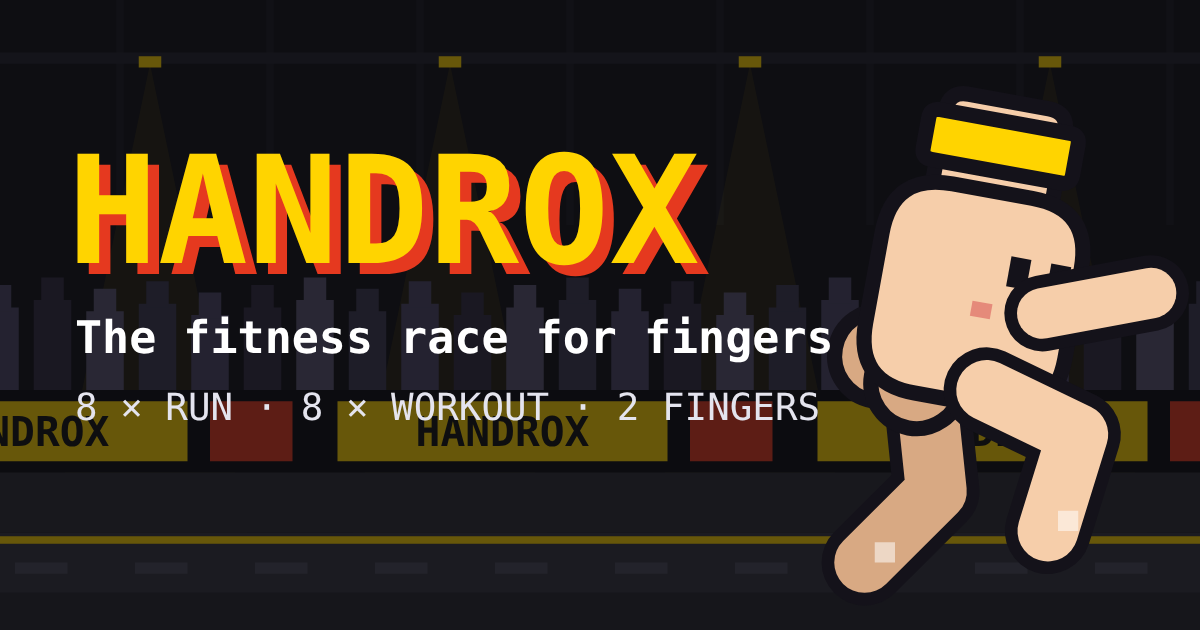
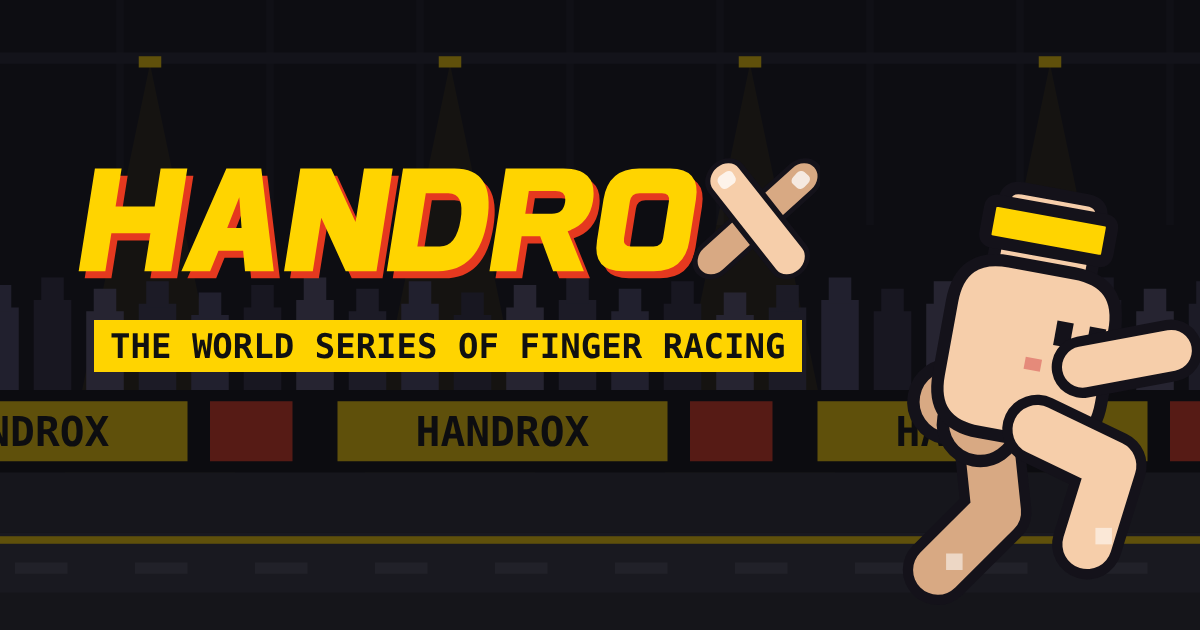
Handrox: 패러디 로고 (꼰 손가락 X) · 표지와 공유 이미지에 적용
Claude-Session: https://claude.ai/code/session_01SJE5t9gWC7fQLfFGCGp2rx

Changed region(s): [[0.0617, 0.1508, 1.0, 0.9651], [0.0617, 0.2413, 0.6783, 0.4524]]

diff --git a/handrox/index.html b/handrox/index.html
@@ -69,9 +69,9 @@
   .ov .k{font-size:15px;color:var(--gold);border:2px solid var(--gold);padding:4px 10px;margin-top:2px}
   .cover{position:absolute;inset:0;z-index:20;background:#0c0c10d8;display:flex;flex-direction:column;align-items:center;justify-content:center;gap:8px;text-align:center;cursor:pointer}
   .cover[hidden]{display:none}
-  .cover .lg{font-size:40px;font-weight:700;color:var(--gold);text-shadow:4px 4px 0 var(--red);line-height:1;letter-spacing:3px}
+  .cover .logo{width:78%;max-width:330px;height:auto;display:block}
   .cover .tag{font-size:15px;color:#fff;text-shadow:2px 2px 0 #000}
-  .cover .sub{font-size:10px;color:var(--ink);letter-spacing:1px}
+  .cover .sub{font-size:10px;color:#111;background:var(--gold);padding:2px 8px;letter-spacing:1px}
   .cover .ins{font-size:14px;animation:blink 1s steps(1) infinite;margin-top:4px}
   .cover .note{font-size:9px;color:var(--dim)}
   .lsel{display:flex;gap:8px;margin:2px 0}
@@ -138,9 +138,9 @@
     <div class="banner" id="banner"></div>
     <div class="ov" id="ov" hidden></div>
     <div class="cover" id="cover">
-      <div class="lg">HANDROX</div>
+      <svg class="logo" xmlns="http://www.w3.org/2000/svg" viewBox="0 0 740 136" role="img" aria-label="HANDROX"><g transform="translate(34,18) skewX(-9)"><path transform="translate(7,7)" fill="#e5391f" fill-rule="evenodd" d="M0,0H26V37H64V0H90V100H64V63H26V100H0Z"/><path transform="translate(107,7)" fill="#e5391f" fill-rule="evenodd" d="M0,100L28,0H62L90,100H62L57,80H33L28,100ZM38,58H52L45,28Z"/><path transform="translate(207,7)" fill="#e5391f" fill-rule="evenodd" d="M0,0H30L62,52V0H90V100H60L28,48V100H0Z"/><path transform="translate(307,7)" fill="#e5391f" fill-rule="evenodd" d="M0,0H50Q90,0 90,50Q90,100 50,100H0ZM26,24H48Q64,24 64,50Q64,76 48,76H26Z"/><path transform="translate(407,7)" fill="#e5391f" fill-rule="evenodd" d="M0,0H56Q90,0 90,32Q90,54 70,61L92,100H62L44,66H26V100H0ZM26,22H52Q63,22 63,33Q63,44 52,44H26Z"/><path transform="translate(507,7)" fill="#e5391f" fill-rule="evenodd" d="M30,0H60Q90,0 90,30V70Q90,100 60,100H30Q0,100 0,70V30Q0,0 30,0ZM34,24H56Q64,24 64,32V68Q64,76 56,76H34Q26,76 26,68V32Q26,24 34,24Z"/><path transform="translate(0,0)" fill="#ffd400" fill-rule="evenodd" d="M0,0H26V37H64V0H90V100H64V63H26V100H0Z"/><path transform="translate(100,0)" fill="#ffd400" fill-rule="evenodd" d="M0,100L28,0H62L90,100H62L57,80H33L28,100ZM38,58H52L45,28Z"/><path transform="translate(200,0)" fill="#ffd400" fill-rule="evenodd" d="M0,0H30L62,52V0H90V100H60L28,48V100H0Z"/><path transform="translate(300,0)" fill="#ffd400" fill-rule="evenodd" d="M0,0H50Q90,0 90,50Q90,100 50,100H0ZM26,24H48Q64,24 64,50Q64,76 48,76H26Z"/><path transform="translate(400,0)" fill="#ffd400" fill-rule="evenodd" d="M0,0H56Q90,0 90,32Q90,54 70,61L92,100H62L44,66H26V100H0ZM26,22H52Q63,22 63,33Q63,44 52,44H26Z"/><path transform="translate(500,0)" fill="#ffd400" fill-rule="evenodd" d="M30,0H60Q90,0 90,30V70Q90,100 60,100H30Q0,100 0,70V30Q0,0 30,0ZM34,24H56Q64,24 64,32V68Q64,76 56,76H34Q26,76 26,68V32Q26,24 34,24Z"/><g transform="translate(606,0)"><line x1="10" y1="88" x2="84" y2="10" stroke="#14121a" stroke-width="40" stroke-linecap="round"/><line x1="10" y1="88" x2="84" y2="10" stroke="#d8a983" stroke-width="30" stroke-linecap="round"/><rect x="-9" y="-8" width="15" height="16" rx="5" fill="#fff" opacity=".75" transform="translate(84,10) rotate(-51.66665989090137)"/><line x1="84" y1="88" x2="10" y2="10" stroke="#14121a" stroke-width="40" stroke-linecap="round"/><line x1="84" y1="88" x2="10" y2="10" stroke="#f6ceaa" stroke-width="30" stroke-linecap="round"/><rect x="-9" y="-8" width="15" height="16" rx="5" fill="#fff" opacity=".75" transform="translate(10,10) rotate(-128.33334010909863)"/></g></g></svg>
       <div class="tag" id="cTag"></div>
-      <div class="sub">8 × RUN · 8 × WORKOUT · 2 FINGERS</div>
+      <div class="sub">THE WORLD SERIES OF FINGER RACING</div>
       <div class="lsel" id="lsel"><button type="button" data-l="ko">한국어</button><button type="button" data-l="en">English</button></div>
       <div class="ins">TAP TO START</div>
       <div class="note" id="cNote"></div>
